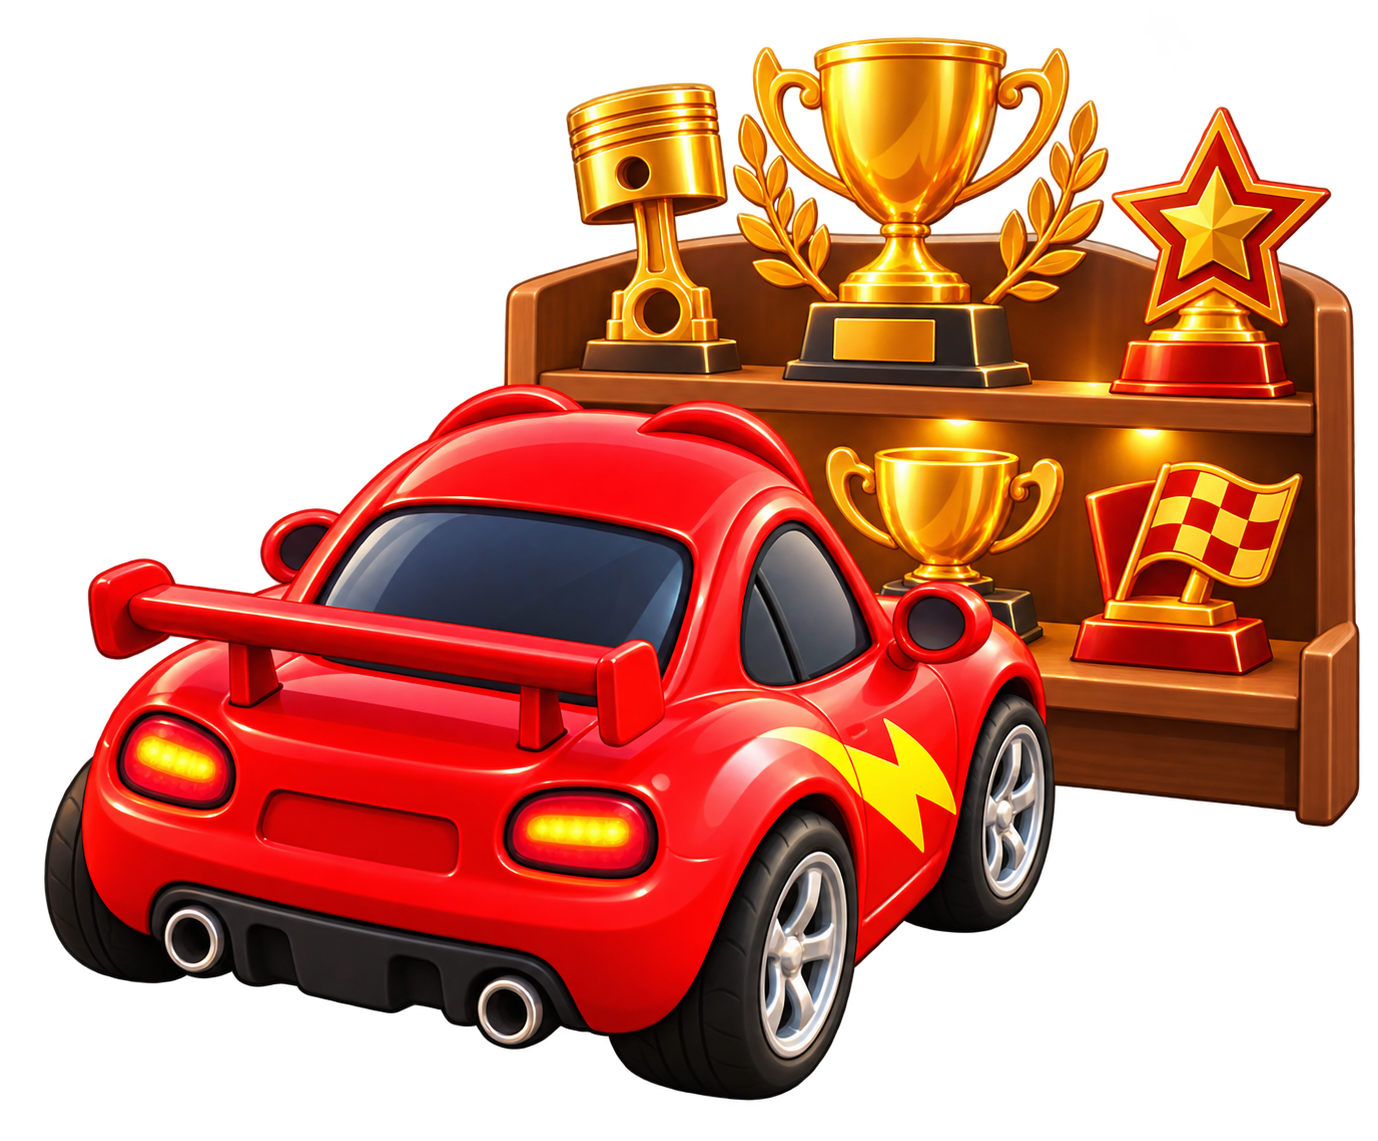
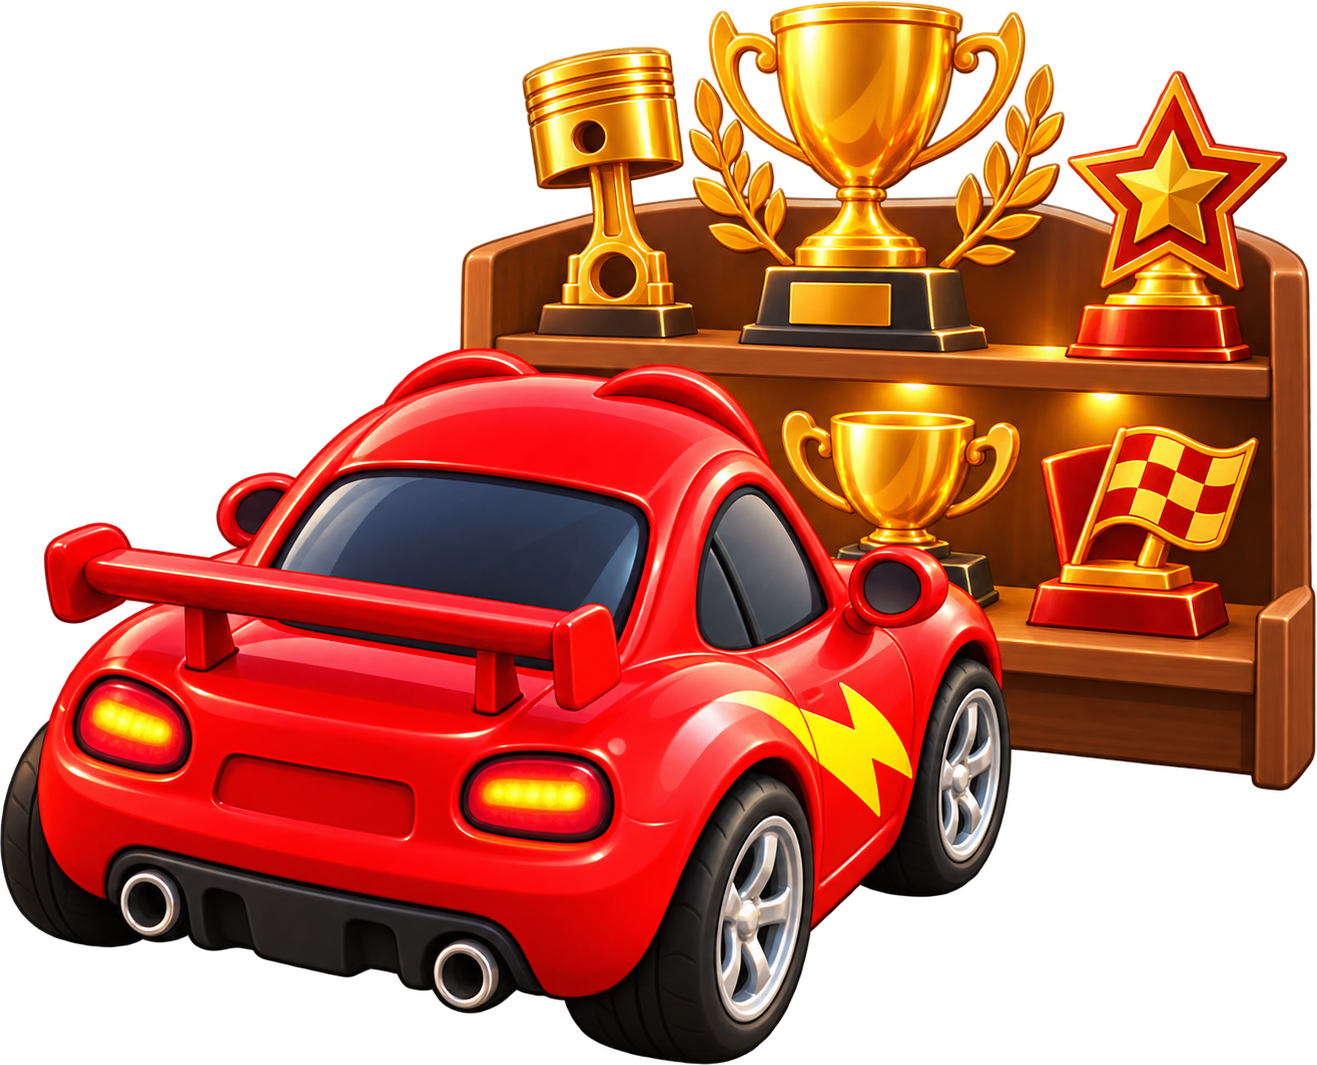
v0.8.70: Кубки крупнее без изменения карточки

diff --git a/ChauBOT/index.html b/ChauBOT/index.html
@@ -1,1 +1,1 @@
-<!doctype html><html lang="ru">  <head>    <meta charset="UTF-8" />    <meta name="viewport" content="width=device-width, initial-scale=1.0, maximum-scale=1.0, user-scalable=no, viewport-fit=cover" />    <meta name="theme-color" content="#14080c" />    <meta name="description" content="SpyChau — ваш архив изменений в подключённых чатах Telegram." />    <title>SpyChau — архив чатов</title><link rel="stylesheet" href="./src/styles.css?v=0.8.69" />    <script src="https://telegram.org/js/telegram-web-app.js"></script>  </head>  <body>    <div id="root"></div>    <script src="./app.js?v=0.8.69" defer></script>  </body></html>
+<!doctype html><html lang="ru">  <head>    <meta charset="UTF-8" />    <meta name="viewport" content="width=device-width, initial-scale=1.0, maximum-scale=1.0, user-scalable=no, viewport-fit=cover" />    <meta name="theme-color" content="#14080c" />    <meta name="description" content="SpyChau — ваш архив изменений в подключённых чатах Telegram." />    <title>SpyChau — архив чатов</title><link rel="stylesheet" href="./src/styles.css?v=0.8.70" />    <script src="https://telegram.org/js/telegram-web-app.js"></script>  </head>  <body>    <div id="root"></div>    <script src="./app.js?v=0.8.70" defer></script>  </body></html>

diff --git a/ChauBOT/src/styles.css b/ChauBOT/src/styles.css
@@ -180,7 +180,9 @@ html,body{touch-action:pan-x pan-y}
 .service-card-bottom>.button{max-width:100%;white-space:normal}
 .coming-content{min-width:0;gap:8px}
 .coming-content>div:first-child{min-width:0}
-.coming-content>.racer-small{width:300px;height:240px;flex:none;margin-right:-12px}
+.coming-card{position:relative;min-height:210px;overflow:hidden}
+.coming-content>div:first-child{padding-right:155px}
+.coming-content>.racer-small{position:absolute;right:14px;bottom:0;width:300px;height:210px;flex:none;margin:0;pointer-events:none}
 .archive-page{width:100%;min-width:0}
 .archive-page .search-field,.archive-page .archive-list{width:100%;min-width:0;max-width:100%}
 .archive-page .search-field{padding-inline:10px}
@@ -248,7 +250,8 @@ html,body{touch-action:pan-x pan-y}
   .profile-row .service-icon{width:34px;height:34px}
   .service-card,.coming-card{padding:13px}
   .service-card-bottom .button{font-size:10px;padding:9px}
-  .coming-content .racer-small{width:100px;height:80px}
+  .coming-content>div:first-child{padding-right:120px}
+  .coming-content>.racer-small{width:230px;height:170px;right:4px;bottom:0}
   .page-title h1{font-size:26px}
   .profile-intro{padding-bottom:18px}
 }

diff --git a/ChauBOT/src/worker.js b/ChauBOT/src/worker.js
@@ -6,7 +6,7 @@ export default {
     const route = url.pathname;
 
     if (route === "/health" && request.method === "GET") {
-      return json({ status: "ok", service: "spychau-api", version: "0.8.69" });
+      return json({ status: "ok", service: "spychau-api", version: "0.8.70" });
     }
 
     const avatarMatch = route.match(/^\/api\/avatar\/(\d+)$/);

diff --git a/ChauBOT/RELEASES.md b/ChauBOT/RELEASES.md
@@ -2,6 +2,8 @@
 
 ## Recent releases
 
+- `v0.8.70: Увеличить кубки без растягивания карточки` — прозрачные поля изображения обрезаны, иллюстрация закреплена справа в окне «Дополнительные возможности».
+
 - `v0.8.66: Кчау едет по дороге в разделе «Что происходило»` — в пустом состоянии блока событий вместо изображения с лупой отображается Кчау на дороге.
 
 - `v0.8.65: Убрать дублирующие кнопки «Назад» на телефонах` — встроенные кнопки возврата скрыты на мобильных экранах; Telegram BackButton остаётся основным способом вернуться.
